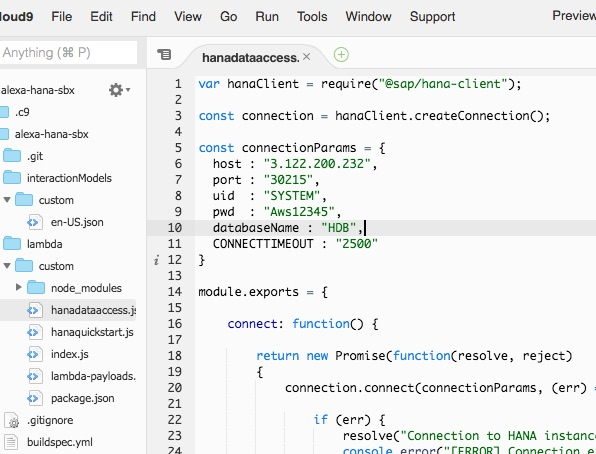
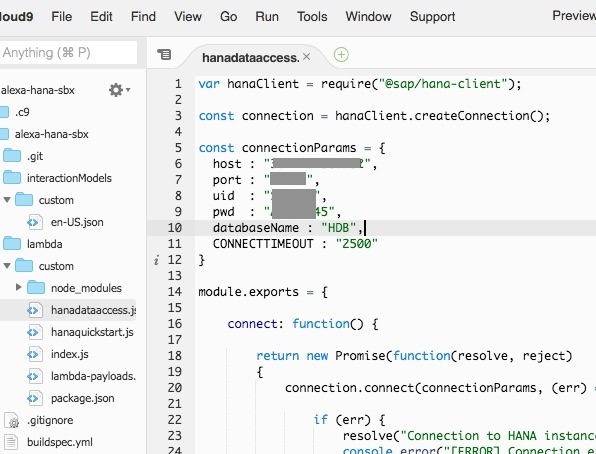
init

diff --git a/2. Fetch Data from SAP HANA/hanadataaccess.js b/2. Fetch Data from SAP HANA/hanadataaccess.js
@@ -3,11 +3,11 @@ var hanaClient = require("@sap/hana-client");
 const connection = hanaClient.createConnection();
 
 const connectionParams = {
-  host : "3.122.200.232",
-  port : "30215",
-  uid  : "SYSTEM",
-  pwd  : "Aws12345",
-  databaseName : "HDB",
+  host : "<Hostname/IP-Adress>",
+  port : "<Port = typically 5 digits 3<InstanceID>15",
+  uid  : "<HDBUser>",
+  pwd  : "<HDBPassword>",
+  databaseName : "<DBName e.g. HDB>",
   CONNECTTIMEOUT : "2500"
 }
 
